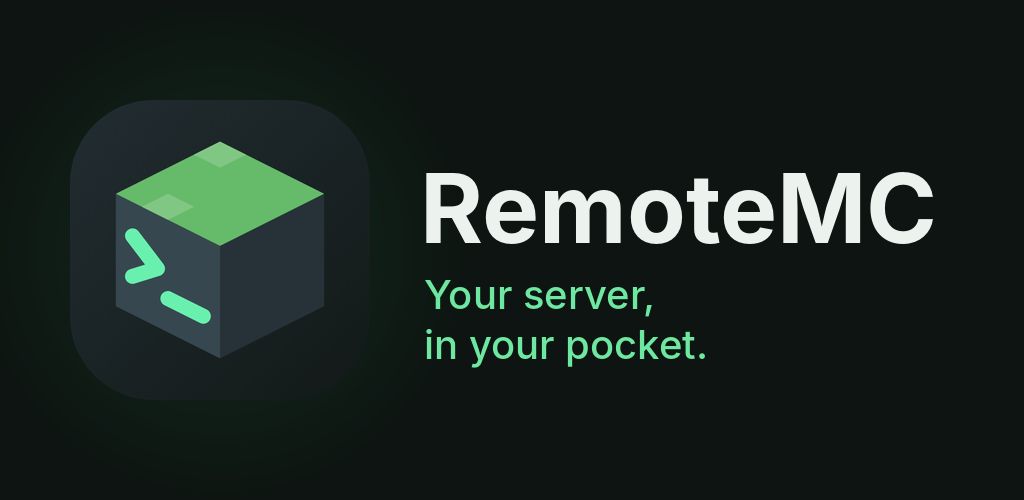
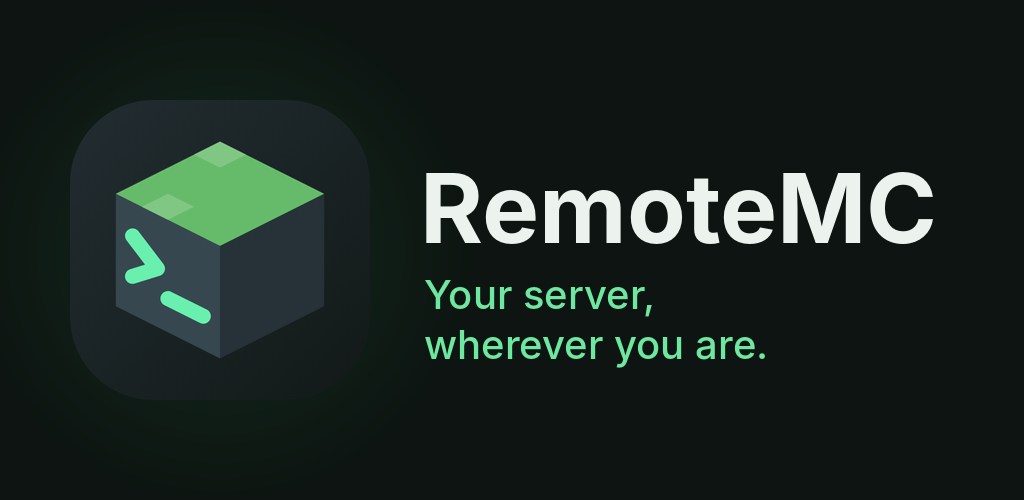
New slogan: "Your server, wherever you are"
The old one ("Your server, in your pocket") sounded as if the phone hosted the Minecraft server;
RemoteMC only manages it remotely. Changed in all 10 languages (server list, welcome page,
Windows app), the store description and the Play feature graphic.

Claude-Session: https://claude.ai/code/session_01REYowLErJNam12YSLSQNL6

Changed region(s): [[0.4062, 0.66, 0.75, 0.75]]

diff --git a/docs/store/app-description.md b/docs/store/app-description.md
@@ -3,7 +3,7 @@
 **Short description (80 chars):** Manage your Minecraft server from your phone – live, secure and free.
 
 **Full description:**
-RemoteMC puts your Minecraft server in your pocket. Install the free RemoteMC plugin on your
+RemoteMC lets you manage your Minecraft server from your phone, wherever you are. Install the free RemoteMC plugin on your
 Paper, Purpur, Folia or Spigot server, run /remotemc pair and scan the QR code.
 
 • Live dashboard: TPS, MSPT, memory, uptime and worlds, with charts of the last hour, day or week
